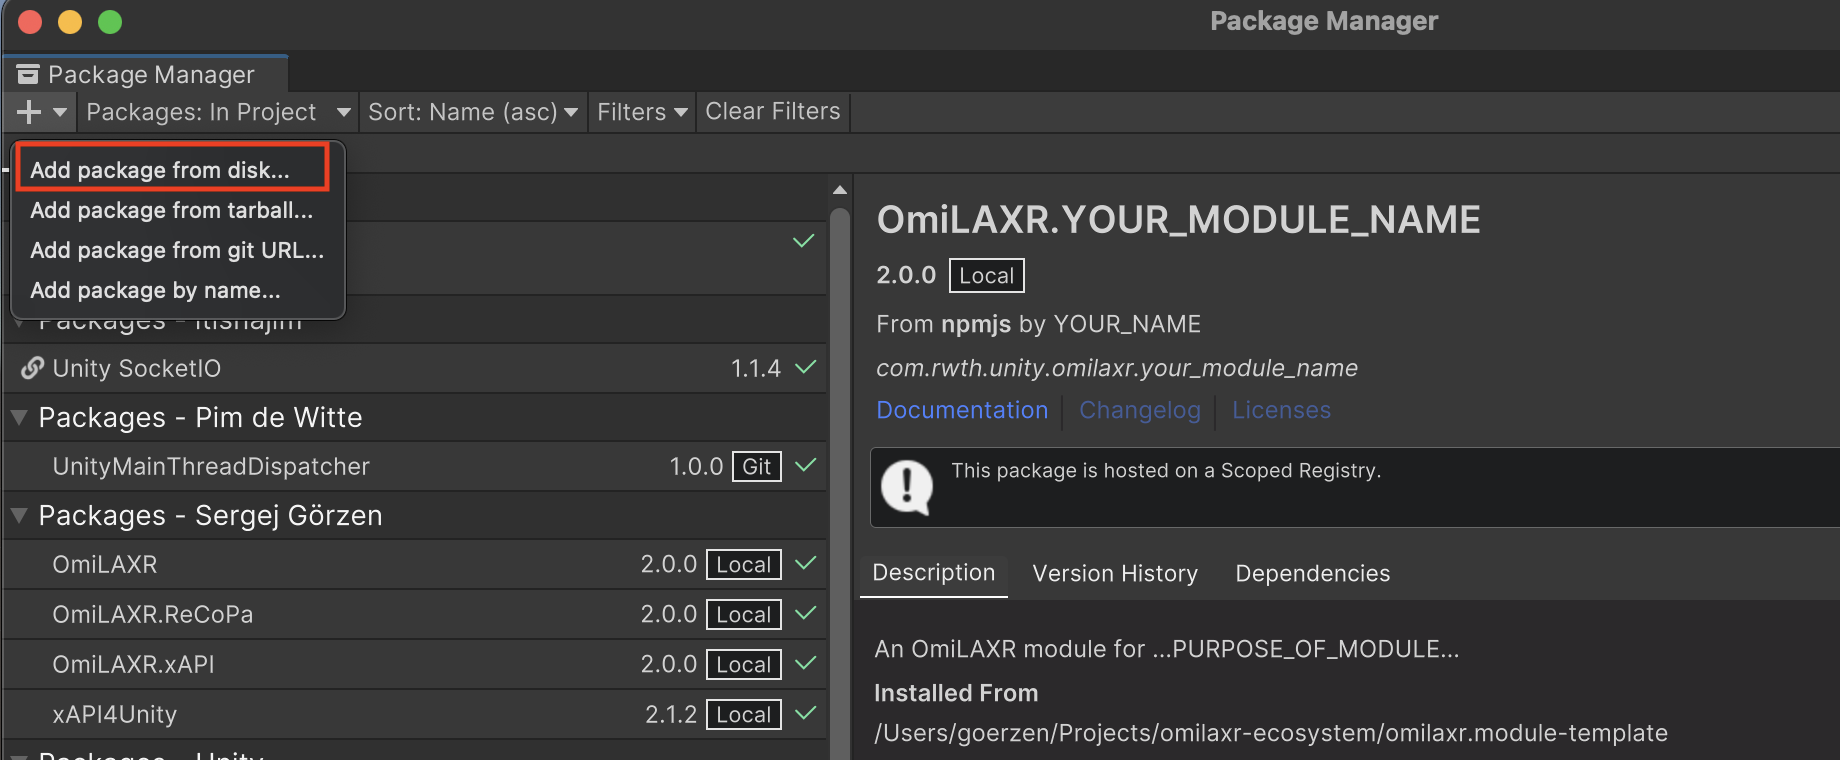
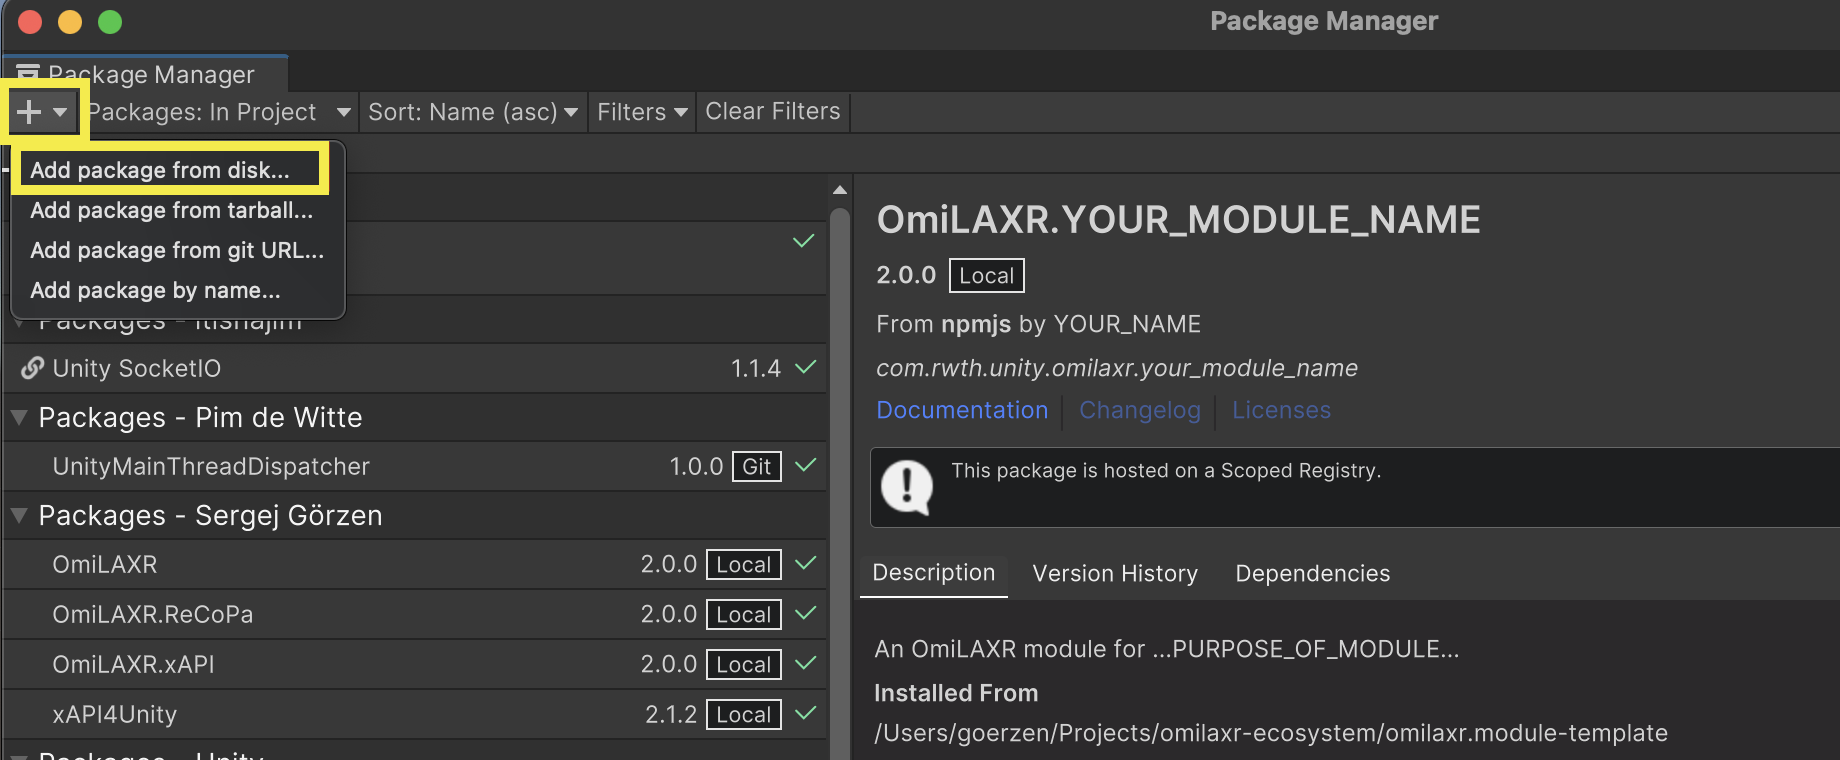
improved get started

Changed region(s): [[0.0, 0.0908, 0.1859, 0.2724]]

diff --git a/src/components/presentation/getStarted.tsx b/src/components/presentation/getStarted.tsx
@@ -5,6 +5,7 @@ import {InlineCodeBox} from "../CodeBox";
 import {FigureManager} from "react-figure-ref";
 import Hyperlink from "../Hyperlink";
 import {JsonManifestCodebox} from "../jsonManifest";
+import Tabs from "../Tabs";
 
 const scopes = [
     "com.rwth.unity.omilaxr.xapi4unity",
@@ -21,12 +22,14 @@ function H({children}: any) {
 }
 
 export default function () {
+
     const fm = new FigureManager({
         figures: [
             {label: "step-0", imageSrc: "/get-started/step-0.png"},
             {label: "step-1", imageSrc: "/get-started/scoped-registry.png"},
             {label: "step-3", imageSrc: "/get-started/step-3.jpg"},
             {label: "my-registries", imageSrc: "/get-started/my-registries.png"},
+            {label: "my-registries-2023", imageSrc: "/get-started/my-registries-2023.png"},
             {label: "xapi4unity", imageSrc: "/get-started/xapi4unity.png"},
             {label: "add-from-disk", imageSrc: "/get-started/add-from-disk.png"},
             {label: "omilaxr-workflow", imageSrc: "/OmiLAXR_Workflow_generic_small.jpg"},
@@ -35,24 +38,44 @@ export default function () {
             {label: "installed-omilaxr", imageSrc: "/get-started/installed-omilaxr.png"},
             {label: "asmdef-inspector", imageSrc: "/get-started/asmdef.png"},
             {label: "prefabs", imageSrc: "/get-started/prefabs.png"},
+            {label: "prefabs-2", imageSrc: "/get-started/prefabs-2.png"},
+            {label: "prefabs-in-hierarchy", imageSrc: "/get-started/prefabs-in-hierarchy.png"},
         ]
     });
 
     const items: InstructionCardProps[] = [
         {
+            title: "Overview of the workflow",
+            children: <div>
+                <P>For working more easy, consistent and IDE-supported, we created a tool
+                    which transforms the xAPI registry into C# code you can use. In this step you will import this
+                    tool. In <fm.FigureRef label="omilaxr-workflow"/> you can get an overview of our idea.
+                </P>
+
+                <fm.Figure caption="Compact overview of the OmiLAXR workflow" label="omilaxr-workflow" maxWidth="50%"/>
+
+                <P>In the <a href="https://xapi.elearn.rwth-aachen.de" target="_blank">xAPI Definitions Registry</a> (on the top left), we maintain a collection of xAPI verbs, activities and extensions for different contexts.
+                    They are defined in a folder structure of <InlineCodeBox>&lt;context&gt;/&lt;defType&gt;/&lt;defName&gt;.json</InlineCodeBox>, where <InlineCodeBox>context</InlineCodeBox> depends on the usage e.g.
+                    <InlineCodeBox>virtualReality</InlineCodeBox> or <InlineCodeBox>lms</InlineCodeBox>, <InlineCodeBox>defType</InlineCodeBox> is <InlineCodeBox>verb</InlineCodeBox>, <InlineCodeBox>activity</InlineCodeBox>,
+                    <InlineCodeBox>extensions/result</InlineCodeBox>, <InlineCodeBox>extensions/context</InlineCodeBox> or <InlineCodeBox>extensions/activity</InlineCodeBox> and <InlineCodeBox>defName</InlineCodeBox> is the name of the definition e.g. <InlineCodeBox>teleported</InlineCodeBox>.</P>
+                <P>Our package <InlineCodeBox>xAPI4Unity</InlineCodeBox> (<fm.FigureRef label="omilaxr-workflow"/>, in the bottom) takes all these definitions and translate them into strict and static C# classes. This approach avoids typos and inconsistencies. This is how the definitions can be used.
+                    See <a href="/pipeline#composers">Composers</a> for more details. This can be used for your XR application to define custom xAPI statements. These definitions are used and provided via <InlineCodeBox>OmiLAXR</InlineCodeBox> to a Learning Record Store (in the top). The developers learn
+                from situations and these learnings can be used to define new xAPI definitions. This can be done locally in project and transfered later to our xAPI Registry to share with the community.</P>
+            </div>
+        },
+        {
             title: "Preparation",
             children: <div>
-                <P>Make sure you have an XR project. OmiLAXRv2 has no XR framework dependency and is compatible with all of them by design. Further, it is not limited to XR projects. Simple Unity projects are compatible, too. However, you can either use a new project or choose an existing one.</P>
+                <P>Make sure you have an Unity project in what you want to integrate the framework. OmiLAXRv2 has no XR framework dependency and is compatible with all of them by design. Further, it is not limited to XR projects so far. Simple Unity projects are compatible, too. However, you can either use a new project or choose an existing one.</P>
 
                 <fm.Figure caption="Screenshot of a XR start project" label="step-0" maxWidth="80%"/>
 
-                <P>In this page you will install three OmiLAXR packages. They all have following purposes:</P>
+                <P>On this page you will install three Unity packages. As described before, <InlineCodeBox>xAPI4Unity</InlineCodeBox> is used for transforming the xAPI Registry int C# code. This is necessary be installed <strong>before</strong> you install <InlineCodeBox>OmiLAXR.xAPI</InlineCodeBox>.
+                Our framework does not depend on any XR framework or data format. But to keep some common functionality, we created the base module <InlineCodeBox>OmiLAXR</InlineCodeBox>. That need to be installed if you want to use OmiLAXR. The last package enables the handling of xAPI specification.
+                    The package <InlineCodeBox>OmiLAXR.xAPI</InlineCodeBox> keeps some components for working with the specific data format xAPI.
+                </P>
 
-                <ul>
-                    <li><strong>xAPI4Unity</strong>: A package for transforming xAPI registry JSON files to strict C# files. These files are needed to work with xAPI in a specific C# notation. It creates a new namespace <InlineCodeBox>xAPI.Registry</InlineCodeBox> that is used by <InlineCodeBox>OmiLAXR.xAPI</InlineCodeBox>.</li>
-                    <li><strong>OmiLAXR</strong>: This is the base package delivering the complete base for the whole <a href="/pipeline">OmiLAXR pipeline</a> but without any specific data standard.</li>
-                    <li><strong>OmiLAXR.xAPI</strong>: As OmiLAXR gives you the possibility to use any data standard you need. This package uses <InlineCodeBox>xAPI.Registry</InlineCodeBox> and enables a new notation to build xAPI statements with like-spoken C# syntax. It contains OmiLAXR components using xAPI as data standard.</li>
-                </ul>
+                <P><strong style={{color: "red"}}>To avoid errors it is necessary to install the packages in the order of this instruction! (xAPI4Unity, OmiLAXR, OmilAXR.xAPI)</strong></P>
             </div>
         },
         {
@@ -67,7 +90,7 @@ export default function () {
                     third-party packages (like <InlineCodeBox>OmiLAXR</InlineCodeBox>) you need to add the registers to your project.
                     This can do this either by Unity editor or by directly edit your manifest.json file of the project.</P>
 
-                <P>We recommended to just add all scopes of OmiLAXR by using manifest.json</P>
+                <P>We recommended to just add all scopes of OmiLAXR by using manifest.json. Alternatively, you can do the entry via Unity editor (see below).</P>
 
                 <P>Open for this the
                     file <InlineCodeBox>&lt;project_root&gt;/Packages/manifest.json</InlineCodeBox> any code editor and
@@ -78,15 +101,12 @@ export default function () {
 
                 <P>
                     After saving the file, you should open Unity editor and check under <InlineCodeBox>Edit &gt; Project
-                    Settings...</InlineCodeBox> if the scopes are applied (see <fm.FigureRef label="step-1"/>). Further modules are coming soon.
+                    Settings...</InlineCodeBox> if the scopes are applied (see <fm.FigureRef label="step-1"/>). Further modules (see <a target="_blank" href="/ecosystem">Ecosystem</a>) can be added here, too.
                 </P>
 
                 <div className="columns-2xl max-w-[100vw]">
-
                     <JsonManifestCodebox scopes={scopes}></JsonManifestCodebox>
-
                     <fm.Figure className="align-middle"  maxWidth="100%" caption="Unity Package Manager scopes (amount of packages can differ)" label="step-1"/>
-
                 </div>
             </div>
         },
@@ -94,18 +114,25 @@ export default function () {
         {
             title: "Install xAPI4Unity package",
             children: <div>
-                <P>For working more easy, consistent and IDE-supported, we created a tool
-                    which transforms the xAPI registry into C# code you can use. In this step you will import this
-                    tool. In <fm.FigureRef label="omilaxr-workflow"/> you can get an overview of our idea.
-                </P>
 
-                <fm.Figure caption="Compact overview of the OmiLAXR workflow" label="omilaxr-workflow" maxWidth="50%"/>
 
                 <P>In Unity menu navigate to <InlineCodeBox>Window &gt; Package Manager</InlineCodeBox>.</P>
 
                 <P>Choose <InlineCodeBox>My Registries</InlineCodeBox> and select the available package in the list (see <fm.FigureRef label="my-registries"/>). Here you will be able to update your packages.</P>
 
-                <fm.Figure caption="My Unity Registries (amount of packages can differ)" label="my-registries" maxWidth="70%"/>
+                <Tabs tabs={[{
+                    id: "unity-2022",
+                    label: "< Unity 2023",
+                    content: (
+                        <fm.Figure caption="My Unity Registries (amount of packages can differ)" label="my-registries" maxWidth="70%"/>
+                    )
+                }, {
+                    id: "unity-2023",
+                    label: "Unity 2023+",
+                    content: (
+                        <fm.Figure caption="My Unity Registries Unity 2023+ (amount of packages can differ)" label="my-registries-2023" maxWidth="70%"/>
+                    )
+                }]} />
 
                 <P>Alternatively, you can add packages by using the <InlineCodeBox>+</InlineCodeBox> in the top left corner. Type
                     there <InlineCodeBox clipboardButton={true}>com.rwth.unity.omilaxr.xapi4unity</InlineCodeBox> into the "name" field
@@ -132,26 +159,30 @@ export default function () {
                     For a more user friendly maintenance we created an user
                     interface <Hyperlink>https://xapi.elearn.rwth-aachen.de/</Hyperlink></P>
 
-                <P> Check in <InlineCodeBox>OmiLAXR &gt; Settings</InlineCodeBox>
+                <P> Check in <InlineCodeBox>xAPI4Unity &gt; Open Fetcher Window (Settings)</InlineCodeBox>
                     whether everything is configured correctly.
                     Now, you have to check if every path is correct. The recommended settings are defined by default.
-                    Here, you have two options.</P>
+                    Here, you have three options. You can click through them because you need confirm again before action get executed.</P>
 
                 <ul>
-                    <li><strong>(Option 1) I want to use git</strong>: You can add a git submodule to your project. This
-                        makes sense if you want to sync your local registry changes with a separate git repository or
-                        contribute to a global repository. Of course, you can do it totally on your own, but the tool
-                        window gives you the possibility to choose a target git repository and branch. By default it
-                        will use our git repository and. Make sure you have no error messages and your window looks
-                        similar to <fm.FigureRef label="xapi4unity"/>.
+                    <li><strong>(Option 1) I want to download a local copy and place it in projects 'Assets' folder</strong>:
+                        In this case the <a href="https://gitlab.com/learntech-rwth/xapi/-/tree/master?ref_type=heads" target="_blank">latest xAPI repository version of 'master' branch</a> will be downloaded and extracted directly into your
+                        Assets folder. This way the xAPI definitions will be part of your project repository (<InlineCodeBox>Assets/xapi</InlineCodeBox>). This option is used most commonly.
                     </li>
-                    <li><strong>(Option 2) I want just to download local copy</strong>: It is also allowed to use a
+                    <li><strong>(Option 2) I want just to download local copy to selected path</strong>: It is also allowed to use a
                         local copy without a separate git. This makes sense if you plan to hold your local registry
                         changes inside your project repository. This can make sense if you plan a lot of
                         project-specific xAPI definitions. If you click on the button, the newest files will be
                         downloaded from our repository. All you need to do is to extract the content into your wished
                         path (recommended <InlineCodeBox>Assets/xapi</InlineCodeBox>). Make sure you have the
                         `definitions` folder in root of <InlineCodeBox>Assets/xapi</InlineCodeBox>.
+                    </li>
+                    <li><strong>(Option 1) I want to use git and clone it to my selected path</strong>: You can add a git submodule to your project. This
+                        makes sense if you want to sync your local registry changes with a separate git repository or
+                        contribute to a global repository. Of course, you can do it totally on your own, but the tool
+                        window gives you the possibility to choose a target git repository and branch. By default it
+                        will use our git repository and. Make sure you have no error messages and your window looks
+                        similar to <fm.FigureRef label="xapi4unity"/>.
                     </li>
                 </ul>
 
@@ -171,7 +202,7 @@ export default function () {
 
                 <P>Use again "My Registries" and install <InlineCodeBox>OmiLAXR.xAPI</InlineCodeBox> package (see <fm.FigureRef label="my-registries"/>). As it depends on OmiLAXR package, it will be installed, too.</P>
 
-                <fm.Figure caption="Installed OmiLAXR" label="installed-omilaxr" maxWidth="70%"/>
+                <fm.Figure caption="Installed (xAPI4Unity, OmiLAXR and OmiLAXR.xAPI)" label="installed-omilaxr" maxWidth="70%"/>
 
                 <P>Alternatively, open <InlineCodeBox>Window &gt; Package Manager</InlineCodeBox> and install the
                     package <InlineCodeBox
@@ -218,11 +249,15 @@ export default function () {
                     This can be done either by working in an own Unity package (see in the bottom) holding these classes or holding them in a folder inside of "Assets".</P>
 
                 <P><InlineCodeBox>OmiLAXR</InlineCodeBox> modules are following a strict structure. They provide
-                    prefabs <fm.FigureRef label="prefabs"/>. Example scripts can be found
-                    &nbsp;<a className="underline" target="_blank"
-                             href="https://gitlab.com/learntech-rwth/omilaxr-ecosystem/v2/omilaxr.module-template/-/tree/main/Runtime/Examples">here</a>.</P>
+                    prefabs that can be used to start directly (see <fm.FigureRef label="prefabs"/>, <fm.FigureRef label="prefabs-2"/> and <fm.FigureRef label="prefabs-in-hierarchy"/>).</P>
 
-                <fm.Figure caption={"OmiLAXR Prefabs"} label={"prefabs"} maxWidth={"50%"}/>
+                    <P>Example scripts can be found
+                    &nbsp;<a className="underline" target="_blank"
+                             href="https://gitlab.com/learntech-rwth/omilaxr-ecosystem/v2/omilaxr.module-template/-/tree/main/Runtime/Examples">here</a> (Attention: Currently they are a bit outdated and will be updated later).</P>
+
+                <fm.Figure caption={"OmiLAXR Prefab"} label={"prefabs"} maxWidth={"50%"}/>
+                <fm.Figure caption={"OmiLAXR.xAPI Prefab"} label={"prefabs-2"} maxWidth={"50%"}/>
+                <fm.Figure caption={"OmiLAXR Prefabs in Hierarchy"} label={"prefabs-in-hierarchy"} maxWidth={"50%"}/>
 
                 <div className="pt-3"></div>
                 <h5 style={{fontSize: "20px"}}>(Optional, if you wish to work in separate Unity packages): Creating OmiLAXR modules</h5>
@@ -263,7 +298,7 @@ export default function () {
 
                     <p style={{color: 'green'}}
                        className="mb-6 text-lg font-normal text-gray-500 lg:text-xl dark:text-gray-400">
-                        <P>Already installed OmiLAXRv2? Continue with the <a href="/pipeline" className="underline">Pipeline</a> instruction.</P>.
+                        <P>Already installed OmiLAXRv2? Continue with the <a href="/pipeline" className="underline">Pipeline</a> instruction.</P>
                     </p>
 
                     <p className="mb-6 text-lg font-normal text-gray-500 lg:text-xl dark:text-gray-400">

diff --git a/src/components/presentation/instructionCard.tsx b/src/components/presentation/instructionCard.tsx
@@ -43,13 +43,34 @@ export default function InstructionCard({children, image, title, swapCells}: Ins
     </Card>
 }
 
+export function generateUrlAnchor(title: string): string {
+    const umlautMap: Record<string, string> = {
+        "ä": "ae",
+        "ö": "oe",
+        "ü": "ue",
+        "ß": "ss"
+    };
+
+    return (
+        title
+            .toLowerCase()
+            .replace(/[äöüß]/g, (match) => umlautMap[match]) // Replace German umlauts
+            .normalize("NFD") // Normalize to decompose accents
+            .replace(/[\u0300-\u036f]/g, "") // Remove diacritical marks
+            .replace(/[^a-z0-9\s-]/g, "") // Remove non-alphanumeric except space and hyphen
+            .trim()
+            .replace(/\s+/g, "-") // Convert spaces to hyphens
+            .replace(/-+/g, "-") // Ensure single hyphen usage
+    );
+}
+
 export function contentOf(items: InstructionCardProps[]) {
     return <div className="get-started-cards">
         <ol className="table-of-contents" style={{fontSize: "1.5em", paddingLeft: "1em"}}>
             {
                 items.map(({title}, index) => (
                     <li key={index}>
-                        <a href={'#section-' + index}>{index}. {title}</a>
+                        <a href={'#' + generateUrlAnchor(title)}>{index}. {title}</a>
                     </li>
                 ))
             }
@@ -57,7 +78,7 @@ export function contentOf(items: InstructionCardProps[]) {
 
         {
             items.map(({title, children, image}, index) => (
-                <section style={{paddingTop: '80px'}} id={'section-' + index} key={index}>
+                <section style={{paddingTop: '80px'}} id={generateUrlAnchor(title)} key={index}>
                     <InstructionCard title={`Step ${index}: ${title}`}
                                      image={image}
                                      swapCells={index % 2 != 0}>

diff --git a/src/components/Tabs.tsx b/src/components/Tabs.tsx
@@ -1,0 +1,51 @@
+import React, { useState } from "react";
+import "./Tabs.scss";
+
+const tabs = [
+    { id: "tab1", label: "Tab 1", content: "This is the content of Tab 1." },
+    { id: "tab2", label: "Tab 2", content: "Content of Tab 2 appears here." },
+    { id: "tab3", label: "Tab 3", content: "Tab 3 says hello!" }
+];
+
+export interface Tab<T> {
+    id: T,
+    label: string,
+    content: string | React.ReactNode | React.ReactElement<any> | JSX.Element;
+}
+
+export interface TabsProps<T> {
+    tabs: Tab<T>[];
+    defaultActiveTab?: T;
+}
+
+export default function Tabs<T>({ tabs, defaultActiveTab }: TabsProps<T>) {
+    const [activeTab, setActiveTab] = useState(defaultActiveTab || tabs[0]?.id);
+
+    return (
+        <div>
+            <div className="tabs">
+                {tabs.map((tab) => (
+                    <button
+                        key={tab.id.toString()}
+                        className={`tab ${activeTab === tab.id ? "active" : ""}`}
+                        onClick={() => setActiveTab(tab.id)}
+                    >
+                        {tab.label}
+                    </button>
+                ))}
+            </div>
+
+            <div className="tab-contents">
+                {tabs.map((tab) => (
+                    <div
+                        key={tab.id.toString()}
+                        className="tab-content"
+                        style={{ display: activeTab === tab.id ? "block" : "none" }}
+                    >
+                        {tab.content}
+                    </div>
+                ))}
+            </div>
+        </div>
+    );
+}

diff --git a/src/components/Tabs.scss b/src/components/Tabs.scss
@@ -1,0 +1,22 @@
+.tabs {
+  display: flex;
+  gap: 10px;
+  cursor: pointer;
+  border-bottom: 2px solid #ddd;
+}
+.tab {
+  padding: 10px 15px;
+  border: none;
+  background: none;
+  font-size: 16px;
+  border-bottom: 2px solid transparent;
+}
+.tab.active {
+  border-bottom: 2px solid #0070f3;
+  font-weight: bold;
+}
+.tab-content {
+  padding: 15px;
+  border: 1px solid #ddd;
+  margin-top: 10px;
+}
